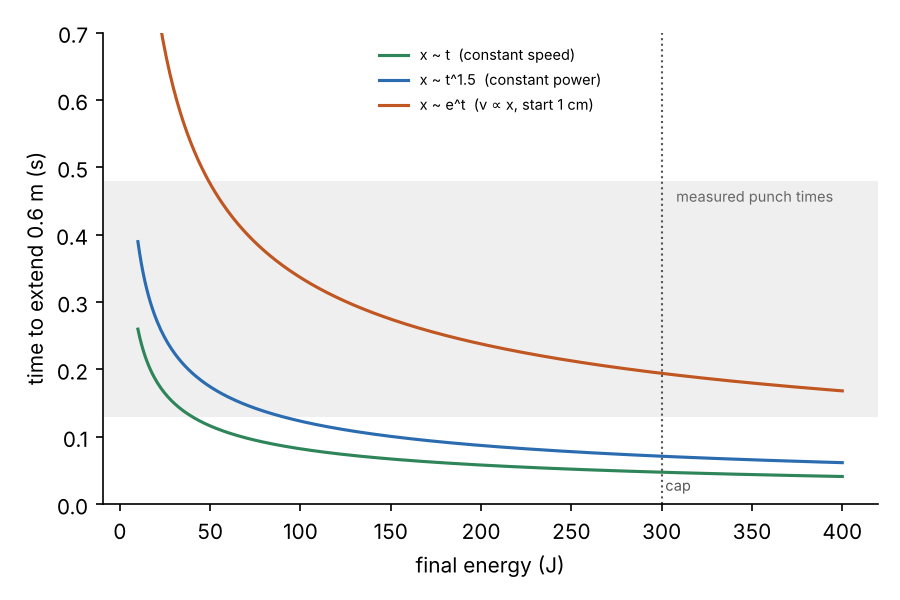
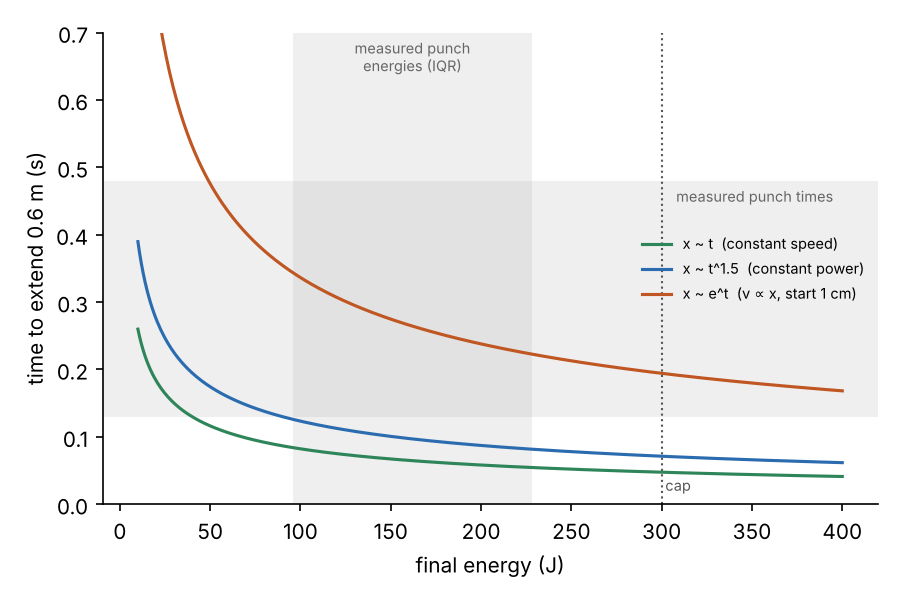
Extension-profile plot: shade measured punch energies
Claude-Session: https://claude.ai/code/session_01RGpbufgYSJT2n4v1xECmZw

diff --git a/docs/combat/plots/extension_profiles.py b/docs/combat/plots/extension_profiles.py
@@ -7,12 +7,14 @@ vf = np.sqrt(2 * E / m)
 fig, ax = plt.subplots(figsize=(6, 4), dpi=150)
 ax.axhspan(0.13, 0.48, color="#999", alpha=.15, lw=0)
 ax.text(395, .47, "measured punch times", ha="right", va="top", fontsize=7, color="#666")
+ax.axvspan(96, 228, color="#999", alpha=.15, lw=0)  # IQR of 16 lab punch measurements
+ax.text(162, .69, "measured punch\nenergies (IQR)", ha="center", va="top", fontsize=7, color="#666")
 for k, lab, c in [(1, "x ~ t  (constant speed)", "#2f855a"),
                   (1.5, "x ~ t^1.5  (constant power)", "#2b6cb0"),
                   (np.log(d / x0), "x ~ e^t  (v ∝ x, start 1 cm)", "#c05621")]:
     ax.plot(E, k * d / vf, color=c, label=lab)
 ax.axvline(300, color="#555", ls=":", lw=1); ax.text(302, .02, "cap", fontsize=7, color="#555")
 ax.set_xlabel("final energy (J)"); ax.set_ylabel("time to extend 0.6 m (s)")
-ax.set_ylim(0, 0.7); ax.legend(fontsize=7, frameon=False)
+ax.set_ylim(0, 0.7); ax.legend(fontsize=7, frameon=False, loc="center right")
 for s in ("top", "right"): ax.spines[s].set_visible(False)
 fig.tight_layout(); fig.savefig("docs/combat/plots/extension_profiles.png")
